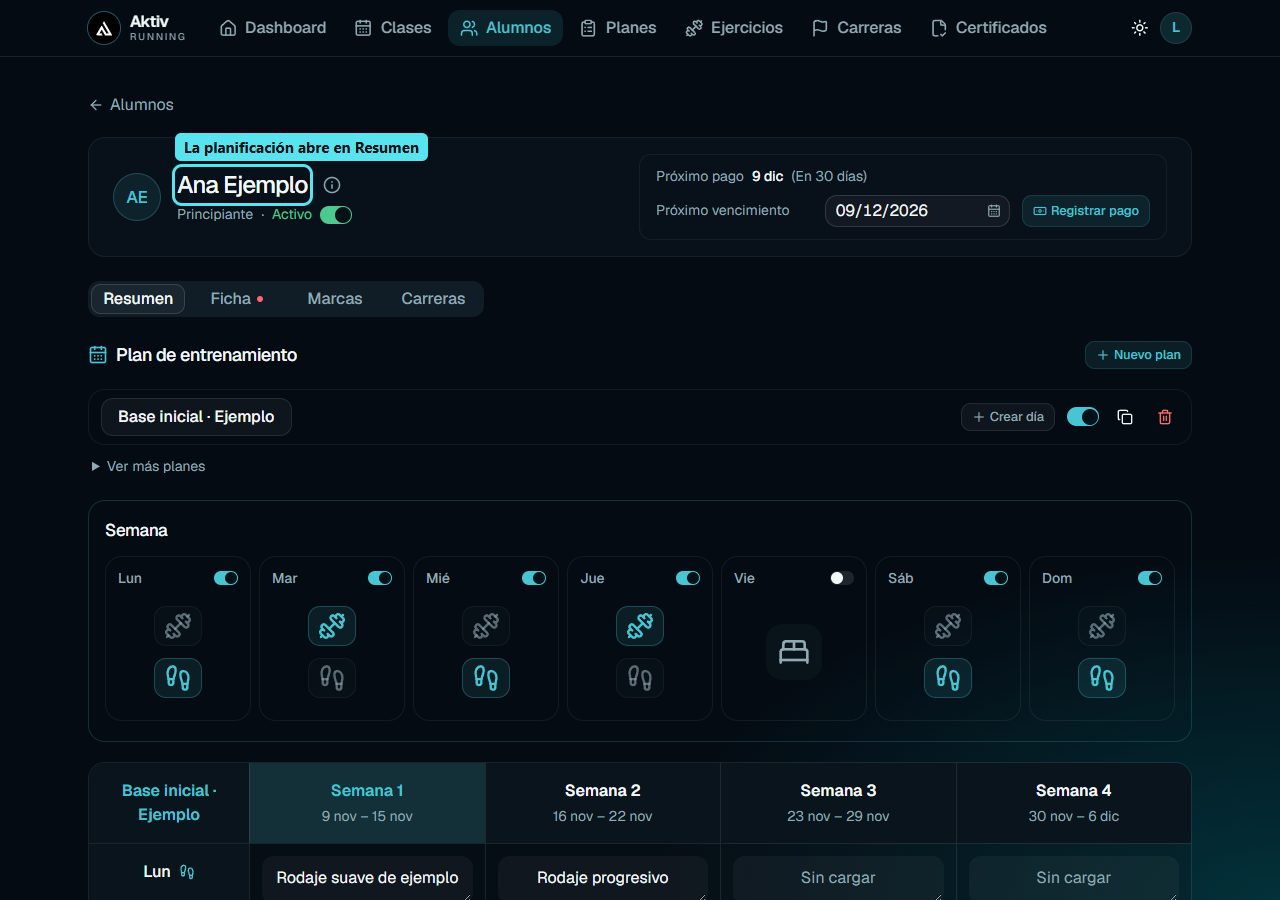
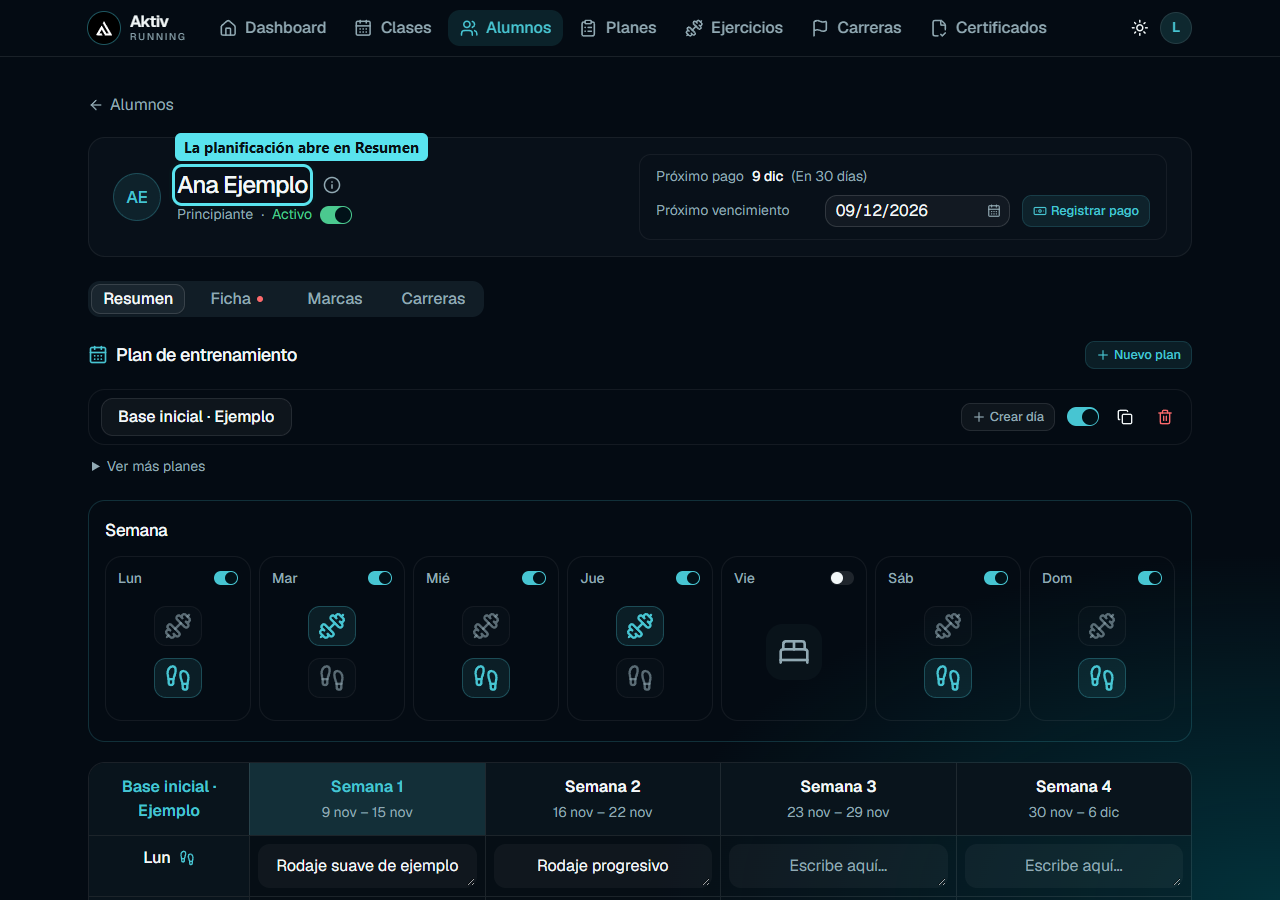
Compactar la grilla y mostrar asignaciones sin esperar al servidor

diff --git a/aktiv-client/src/components/planificacion-unificada.tsx b/aktiv-client/src/components/planificacion-unificada.tsx
@@ -22,7 +22,7 @@ const nombreRutina=(p:Plan,s:SesionEntrenamiento)=>`${tipoVisual(s.tipo)} - Día
 const nombreVisible=(nombre:string)=>nombre.replace(/(Fuerza|GYM)\s*[·–—]\s*(Día\s*\d+)/gi,"Fuerza - $2");
 const selector="w-full min-w-0 rounded-lg border border-input bg-background px-2 py-2 text-center text-sm focus-visible:outline-2 focus-visible:outline-ring";
 
-const Asignador=memo(function Asignador({valor,sesiones,label,onGuardar,onPendiente,soloRutina=false,mostrarRutina=true,disabled=false}:{valor:ActividadDia[];tipos:string[];sesiones:SesionEntrenamiento[];label:string;onGuardar:(a:ActividadDia[])=>Promise<void>;onPendiente:(id:string,v:boolean)=>void;soloRutina?:boolean;mostrarRutina?:boolean;disabled?:boolean}) {
+const Asignador=memo(function Asignador({valor,sesiones,label,onGuardar,onCambiar,onPendiente,soloRutina=false,mostrarRutina=true,disabled=false}:{valor:ActividadDia[];tipos:string[];sesiones:SesionEntrenamiento[];label:string;onGuardar:(a:ActividadDia[])=>Promise<void>;onCambiar:(a:ActividadDia[])=>void;onPendiente:(id:string,v:boolean)=>void;soloRutina?:boolean;mostrarRutina?:boolean;disabled?:boolean}) {
  const [lista,setLista]=useState(valor),[guardada,setGuardada]=useState(JSON.stringify(valor)),[ocupado,setOcupado]=useState(false),[error,setError]=useState("");
  const serial=JSON.stringify(valor),sucio=JSON.stringify(lista)!==guardada;
  if(!sucio&&!ocupado&&serial!==guardada){setLista(JSON.parse(serial));setGuardada(serial);}
@@ -32,10 +32,10 @@ const Asignador=memo(function Asignador({valor,sesiones,label,onGuardar,onPendie
  useEffect(()=>{onPendiente(controlId,sucio||ocupado);return()=>onPendiente(controlId,false);},[controlId,sucio,ocupado,onPendiente]);
  useEffect(()=>{
   if(!sucio||ocupado||error)return;
-  const timer=setTimeout(async()=>{setOcupado(true);try{await onGuardar(lista);setGuardada(JSON.stringify(lista));}catch(e){setError(textoError(e));}finally{setOcupado(false);}},400);
+  const timer=setTimeout(async()=>{setOcupado(true);try{await onGuardar(lista);setGuardada(JSON.stringify(lista));}catch(e){setError(textoError(e));}finally{setOcupado(false);}},0);
   return()=>clearTimeout(timer);
  },[lista,sucio,ocupado,error,onGuardar]);
- function actualizar(nueva:ActividadDia[]){onPendiente(controlId,JSON.stringify(nueva)!==guardada);setLista(nueva);setError("");}
+ function actualizar(nueva:ActividadDia[]){onPendiente(controlId,JSON.stringify(nueva)!==guardada);setLista(nueva);onCambiar(nueva);setError("");}
  function cambiar(i:number,a:ActividadDia){actualizar(lista.map((actual,n)=>n===i?a:actual));}
  return <div className="min-w-0 space-y-2">
   {!soloRutina&&<><div className="flex min-w-0 items-center justify-between gap-2"><span className="text-xs font-medium text-muted-foreground">{label.includes(",")?"Entrenamiento":label.slice(0,3)}</span><Switch size="sm" aria-label={`Entrena el ${label}`} checked={!descansa} disabled={disabled} onCheckedChange={entrena=>{if(entrena)actualizar(anteriores.current.filter(a=>sesiones.some(s=>s.id===a.sesionId)||!a.sesionId));else{anteriores.current=lista.filter(a=>a.tipo!=="Descanso");actualizar([{tipo:"Descanso"}]);}}} /></div>
@@ -43,12 +43,12 @@ const Asignador=memo(function Asignador({valor,sesiones,label,onGuardar,onPendie
     {descansa?<div role="status" aria-label={`Descanso de ${label}`} className="flex size-14 items-center justify-center rounded-xl bg-muted/40 text-muted-foreground"><BedDouble aria-hidden="true" className="size-8" /><span className="sr-only">Descanso</span></div>:[...new Set(["Fuerza","Running",...lista.map(a=>a.tipo)].map(tipoVisual))].filter(t=>t!=="Descanso").map(tipo=>{const activo=lista.some(a=>tipoVisual(a.tipo)===tipo),Icono=icono(tipo);return <Button key={tipo} type="button" variant="ghost" aria-label={`${tipo} de ${label}`} title={tipo} aria-pressed={activo} disabled={disabled||(!activo&&lista.length>=8)} className={`h-10 w-12 shrink-0 rounded-lg border p-0 transition-colors ${activo?"border-primary/35 bg-primary/10 text-primary":"border-border/70 bg-muted/25 text-muted-foreground/60 hover:bg-muted/50 hover:text-foreground"}`} onClick={()=>actualizar(activo?lista.filter(a=>tipoVisual(a.tipo)!==tipo):[...lista.filter(a=>a.tipo!=="Descanso"),{tipo}])}><Icono aria-hidden="true" className="size-7" /></Button>;})}
    </div>
   </>}
-  {mostrarRutina&&lista.map((a,i)=>!["Running","Descanso"].includes(a.tipo)&&<select key={a.sesionId??a.tipo+i} disabled={disabled} aria-label={`Rutina de ${tipoVisual(a.tipo)} para ${label}`} className={selector} value={a.sesionId??""} onChange={e=>{const sesion=sesiones.find(s=>s.id===e.target.value);cambiar(i,{tipo:sesion?.tipo??a.tipo,...(sesion?{sesionId:sesion.id}:{})});}}>
+  {mostrarRutina&&lista.map((a,i)=>!["Running","Descanso"].includes(a.tipo)&&<select key={a.tipo+i} disabled={disabled} aria-label={`Rutina de ${tipoVisual(a.tipo)} para ${label}`} className={selector} value={a.sesionId??""} onChange={e=>{const sesion=sesiones.find(s=>s.id===e.target.value);cambiar(i,{tipo:sesion?.tipo??a.tipo,...(sesion?{sesionId:sesion.id}:{})});}}>
    <option value="">Sin asignar</option>{sesiones.filter(s=>tipoVisual(s.tipo)===tipoVisual(a.tipo)).map((s,n)=><option key={s.id} value={s.id}>{nombreVisible(s.nombre)||`${tipoVisual(s.tipo)} - Día ${n+1}`}</option>)}
   </select>)}
   {error?<div role="alert" className="space-y-1 text-xs text-destructive"><p>{error}</p><Button size="sm" variant="outline" onClick={()=>setError("")}>Reintentar asignación</Button></div>:sucio||ocupado?<p role="status" className="sr-only">Guardando asignación…</p>:null}
  </div>;
-},(a,b)=>JSON.stringify(a.valor)===JSON.stringify(b.valor)&&a.sesiones===b.sesiones&&a.label===b.label&&a.onGuardar===b.onGuardar&&a.onPendiente===b.onPendiente&&a.soloRutina===b.soloRutina&&a.mostrarRutina===b.mostrarRutina&&a.disabled===b.disabled);
+},(a,b)=>JSON.stringify(a.valor)===JSON.stringify(b.valor)&&a.sesiones===b.sesiones&&a.label===b.label&&a.onGuardar===b.onGuardar&&a.onCambiar===b.onCambiar&&a.onPendiente===b.onPendiente&&a.soloRutina===b.soloRutina&&a.mostrarRutina===b.mostrarRutina&&a.disabled===b.disabled);
 
 export function PlanificacionUnificada({plan,editable,renderRutina}:Props) {
  const {api}=usePlanEditor();const {actividades,error:errorActividades}=useActividadesPlan(editable);
@@ -56,6 +56,7 @@ export function PlanificacionUnificada({plan,editable,renderRutina}:Props) {
  const [semana,setSemana]=useState(()=>plan.inicio?(semanaDelPlan(plan.inicio,hoyISO(),plan.semanas)??1):1);
  const [fuente,setFuente]=useState({distribucion:plan.distribucion,running:plan.running});
  if(fuente.distribucion!==plan.distribucion||fuente.running!==plan.running){setFuente({distribucion:plan.distribucion,running:plan.running});setDistribucion(plan.distribucion??{});setRunning(plan.running??{});}
+ const [anticipadas,setAnticipadas]=useState<Record<number,ActividadDia[]>>({});
  const [pendientes,setPendientes]=useState<Record<string,boolean>>({});const [rutina,setRutina]=useState<{id:string;semana:number}|null>(null);
  const ocupado=false,version=0;
  const edicionDist=useRef(false),edicionRunning=useRef(false);
@@ -64,32 +65,35 @@ export function PlanificacionUnificada({plan,editable,renderRutina}:Props) {
  const tipos=[...new Set([...actividades,...plan.sesiones.map(s=>s.tipo),"Descanso"])];
  const actual=plan.inicio?semanaDelPlan(plan.inicio,hoyISO(),plan.semanas):null;
  const desde=Math.floor((semana-1)/4)*4+1,columnas=Array.from({length:Math.min(4,plan.semanas-desde+1)},(_,i)=>desde+i);
- const datos={...plan,distribucion,running};const pendiente=ocupado||Object.values(pendientes).some(Boolean);
+ const vista=Object.entries(anticipadas).reduce((d,[dia,actividades])=>actualizarDistribucion(d,{dia:Number(dia),actividades}),distribucion);
+ const datos={...plan,distribucion:vista,running};const pendiente=ocupado||Object.values(pendientes).some(Boolean);
  const onPendiente=useCallback((id:string,v:boolean)=>setPendientes(p=>p[id]===v?p:{...p,[id]:v}),[]);
  useEffect(()=>registrarBorradorMensual(`planificacion:${plan.id}`,pendiente),[plan.id,pendiente]);
  useEffect(()=>{if(!pendiente)return;const salir=(e:BeforeUnloadEvent)=>{e.preventDefault();e.returnValue="";};window.addEventListener("beforeunload",salir);return()=>window.removeEventListener("beforeunload",salir);},[pendiente]);
  function navegar(accion:()=>void){if(hayBorradoresMensuales())toast.error("Esperá a que se guarden los cambios.");else accion();}
- const asignar=useCallback(async(dia:number,a:ActividadDia[],s?:number)=>{const dto=asignarDiaApi.parse({dia,actividades:a,...(s?{semana:s}:{})});await api.patch(`/planes-mensuales/${plan.id}/distribucion`,dto);edicionDist.current=true;setDistribucion(prev=>actualizarDistribucion(prev,dto));},[api,plan.id]);
+ const asignar=useCallback(async(dia:number,a:ActividadDia[],s?:number)=>{const dto=asignarDiaApi.parse({dia,actividades:a,...(s?{semana:s}:{})});await api.patch(`/planes-mensuales/${plan.id}/distribucion`,dto);edicionDist.current=true;setDistribucion(prev=>actualizarDistribucion(prev,dto));setAnticipadas(prev=>{if(JSON.stringify(prev[dia])!==JSON.stringify(a))return prev;const siguiente={...prev};delete siguiente[dia];return siguiente;});},[api,plan.id]);
+ const anticiparDias=useMemo(()=>DIAS_PLAN.map((_,i)=>(a:ActividadDia[])=>setAnticipadas(prev=>({...prev,[i+1]:a}))),[]);
  const guardarDias=useMemo(()=>DIAS_PLAN.map((_,i)=>(a:ActividadDia[])=>asignar(i+1,a)),[asignar]);
  const alGuardarRunning=useCallback((s:number,campo:Parameters<typeof CeldaRunning>[0]["campo"],texto:string)=>{edicionRunning.current=true;setRunning(prev=>{const siguiente={...prev,[s]:{...prev[s],[campo]:texto}};return siguiente;});},[]);
+ function actividadesGrilla(dia:number,s:number){const a=actividadesDelDia(datos,dia,s);const explicita=vista.semanas?.[s]?.[dia]??vista.base?.[dia];const base=actividadesDelDia(datos,dia,1);return explicita===undefined&&base.some(v=>v.tipo==="Running"&&!v.sesionId)&&!a.some(v=>["Running","GYM","Descanso"].includes(v.tipo))?[...a,{tipo:"Running"}]:a;}
  const abierta=plan.sesiones.find(s=>s.id===rutina?.id);
  return <section aria-label="Planificación unificada" className="min-w-0 space-y-5">
   <div className="space-y-3 rounded-xl border border-primary/20 p-3 sm:p-4"><div className="flex flex-wrap items-center justify-between gap-3"><div><h3 aria-label="Actividades de la semana" className="text-base font-medium tracking-tight">Semana</h3></div></div>
    {errorActividades&&editable&&<p role="alert" className="text-sm text-destructive">{errorActividades}</p>}
-   <div className="flex min-w-0 max-w-full gap-2 overflow-x-auto pb-1 lg:grid lg:grid-cols-7">{DIAS_PLAN.map((dia,i)=><section key={dia} aria-label={`Asignación de ${dia}`} className="w-28 min-w-0 shrink-0 rounded-xl border border-border/70 p-3 lg:w-auto">{!editable&&<h4 className="text-xs font-medium text-muted-foreground">{dia.slice(0,3)}</h4>}{editable?<Asignador mostrarRutina={false} valor={distribucion.base?.[i+1]??actividadesDelDia({...plan,distribucion:{}},i+1,1)} tipos={tipos} sesiones={plan.sesiones} label={dia} onPendiente={onPendiente} onGuardar={guardarDias[i]} />:<p className="break-words text-sm text-muted-foreground">{actividadesDelDia(datos,i+1,semana).map(a=>a.tipo).join(" + ")||"Sin asignar"}</p>}{Object.values(distribucion.semanas??{}).some(d=>d[i+1]!==undefined)&&<p className="text-xs text-primary">Varía por semana</p>}</section>)}</div>
+   <div className="flex min-w-0 max-w-full gap-2 overflow-x-auto pb-1 lg:grid lg:grid-cols-7">{DIAS_PLAN.map((dia,i)=><section key={dia} aria-label={`Asignación de ${dia}`} className="w-28 min-w-0 shrink-0 rounded-xl border border-border/70 p-3 lg:w-auto">{!editable&&<h4 className="text-xs font-medium text-muted-foreground">{dia.slice(0,3)}</h4>}{editable?<Asignador mostrarRutina={false} disabled={Boolean(pendientes["rutina:"+dia])||Object.entries(pendientes).some(([id,v])=>v&&id.endsWith(":"+DIAS_RUNNING[i]))} valor={vista.base?.[i+1]??actividadesDelDia({...plan,distribucion:{}},i+1,1)} tipos={tipos} sesiones={plan.sesiones} label={dia} onPendiente={onPendiente} onGuardar={guardarDias[i]} onCambiar={anticiparDias[i]} />:<p className="break-words text-sm text-muted-foreground">{actividadesDelDia(datos,i+1,semana).map(a=>a.tipo).join(" + ")||"Sin asignar"}</p>}{Object.values(distribucion.semanas??{}).some(d=>d[i+1]!==undefined)&&<p className="text-xs text-primary">Varía por semana</p>}</section>)}</div>
   </div>
   {pendiente&&<p role="status" className="sr-only">Hay cambios pendientes de guardar</p>}
   <div className="flex items-center justify-between gap-3 md:hidden"><Button variant="outline" size="icon-sm" aria-label="Semana anterior de planificación" disabled={pendiente||semana===1} onClick={()=>navegar(()=>setSemana(s=>s-1))}><ArrowLeft /></Button><label className="flex items-center gap-2 text-sm">Semana<select className={selector} aria-label="Semana de planificación" value={semana} disabled={pendiente} onChange={e=>navegar(()=>setSemana(Number(e.target.value)))}>{Array.from({length:plan.semanas},(_,i)=><option key={i} value={i+1}>{i+1} de {plan.semanas}</option>)}</select></label><Button variant="outline" size="icon-sm" aria-label="Semana siguiente de planificación" disabled={pendiente||semana===plan.semanas} onClick={()=>navegar(()=>setSemana(s=>s+1))}><ArrowRight /></Button></div>
   {plan.semanas>4&&<div className="hidden items-center justify-between md:flex"><Button variant="outline" size="sm" disabled={pendiente||desde===1} onClick={()=>navegar(()=>setSemana(desde-4))}><ArrowLeft />Anteriores</Button><span className="text-sm">Semanas {desde}–{columnas.at(-1)} de {plan.semanas}</span><Button variant="outline" size="sm" disabled={pendiente||desde+4>plan.semanas} onClick={()=>navegar(()=>setSemana(desde+4))}>Siguientes<ArrowRight /></Button></div>}
   <div className="max-w-full overflow-x-auto rounded-xl border text-center [&_textarea]:text-center [&_input]:text-center" style={{"--semanas":columnas.length} as CSSProperties}>
-   <div className="hidden grid-cols-[160px_repeat(var(--semanas),minmax(0,1fr))] bg-card md:grid"><div className="p-4 text-sm font-semibold text-primary">{plan.nombre}</div>{columnas.map(s=><div key={s} className={`border-l p-4 text-center ${actual===s?"bg-primary/15 text-primary":""}`}><p className="text-sm font-semibold">Semana {s}</p>{plan.inicio&&<p className="mt-1 text-xs text-muted-foreground">{formatFecha(new Date(Date.parse(plan.inicio+"T12:00:00Z")+(s-1)*7*86400000).toISOString().slice(0,10))} – {formatFecha(new Date(Date.parse(plan.inicio+"T12:00:00Z")+((s-1)*7+6)*86400000).toISOString().slice(0,10))}</p>}</div>)}</div>
-   {DIAS_PLAN.map((dia,i)=><div key={dia} className="border-t bg-card/30 md:grid md:grid-cols-[160px_repeat(var(--semanas),minmax(0,1fr))]"><div className="space-y-2 bg-card p-3 md:p-4"><h4 className="flex items-center justify-center gap-2 text-sm font-medium"><span>{dia.slice(0,3)}</span>{actividadesDelDia(datos,i+1,semana).filter(a=>a.tipo!=="Descanso").map((a,n)=>{const Icono=icono(a.tipo);return <Icono key={n} aria-label={tipoVisual(a.tipo)} className="size-4 text-primary" />;})}</h4>{editable&&(distribucion.base?.[i+1]??actividadesDelDia({...plan,distribucion:{}},i+1,1)).some(a=>!["Running","Descanso"].includes(a.tipo))&&<Asignador soloRutina valor={distribucion.base?.[i+1]??actividadesDelDia({...plan,distribucion:{}},i+1,1)} tipos={tipos} sesiones={plan.sesiones} label={dia} onPendiente={onPendiente} onGuardar={guardarDias[i]} />}</div>{columnas.map(s=>{const a=actividadesDelDia(datos,i+1,s);return <div key={s} className={(s===semana?"block":"hidden md:block")+" min-w-0 content-center space-y-3 p-3 text-center md:border-l"}>
+   <div className="hidden grid-cols-[160px_repeat(var(--semanas),minmax(0,1fr))] bg-card md:grid"><div className="p-3 text-sm font-semibold text-primary">{plan.nombre}</div>{columnas.map(s=><div key={s} className={`border-l p-3 text-center ${actual===s?"bg-primary/15 text-primary":""}`}><p className="text-sm font-semibold">Semana {s}</p>{plan.inicio&&<p className="mt-1 text-xs text-muted-foreground">{formatFecha(new Date(Date.parse(plan.inicio+"T12:00:00Z")+(s-1)*7*86400000).toISOString().slice(0,10))} – {formatFecha(new Date(Date.parse(plan.inicio+"T12:00:00Z")+((s-1)*7+6)*86400000).toISOString().slice(0,10))}</p>}</div>)}</div>
+   {DIAS_PLAN.map((dia,i)=><div key={dia} className="border-t bg-card/30 md:grid md:grid-cols-[160px_repeat(var(--semanas),minmax(0,1fr))]"><div className="space-y-1.5 bg-card p-2.5"><h4 className="flex items-center justify-center gap-2 text-sm font-medium"><span>{dia.slice(0,3)}</span>{actividadesDelDia(datos,i+1,semana).filter(a=>a.tipo!=="Descanso").map((a,n)=>{const Icono=icono(a.tipo);return <Icono key={n} aria-label={tipoVisual(a.tipo)} className="size-4 text-primary" />;})}</h4>{editable&&(vista.base?.[i+1]??actividadesDelDia({...plan,distribucion:{}},i+1,1)).some(a=>!["Running","Descanso"].includes(a.tipo))&&<Asignador soloRutina disabled={Boolean(pendientes["actividad:"+dia])} valor={vista.base?.[i+1]??actividadesDelDia({...plan,distribucion:{}},i+1,1)} tipos={tipos} sesiones={plan.sesiones} label={dia} onPendiente={onPendiente} onGuardar={guardarDias[i]} onCambiar={anticiparDias[i]} />}</div>{columnas.map(s=>{const a=actividadesGrilla(i+1,s);return <div key={s} className={(s===semana?"block":"hidden md:block")+" min-w-0 content-center space-y-2 p-2 text-center md:border-l"}>
     {a.length?a.map((v,n)=>{const sesion=plan.sesiones.find(r=>r.id===v.sesionId);return <div key={v.sesionId??v.tipo+n} className="min-w-0">
-     {v.tipo==="Running"&&!sesion?<div className="space-y-2">{editable?<CeldaRunning key={`${version}:${s}:${i}`} soloTexto planId={plan.id} semana={s} campo={DIAS_RUNNING[i]} valor={running[s]?.[DIAS_RUNNING[i]]??""} onGuardado={alGuardarRunning} onPendiente={onPendiente} />:<p className="whitespace-pre-wrap break-words text-sm leading-6">{running[s]?.[DIAS_RUNNING[i]]||"Sin cargar"}</p>}</div>:sesion?<Button className="h-auto min-h-16 w-full min-w-0 justify-center whitespace-normal rounded-xl border-primary/25 bg-primary/5 p-3 text-center hover:bg-primary/10" aria-label={`Abrir ${nombreRutina(plan,sesion)}, ${dia}, semana ${s}`} onClick={()=>navegar(()=>setRutina({id:sesion.id,semana:s}))}><span className="block min-w-0 break-words text-sm font-medium">{nombreVisible(sesion.nombre)||nombreRutina(plan,sesion)}</span></Button>:<div className="flex min-h-16 items-center justify-center text-muted-foreground">{v.tipo==="Descanso"?<BedDouble aria-label="Descanso" className="size-7" />:<span className="text-sm">Sin asignar</span>}</div>}
-    </div>;}):<p className="py-3 text-sm text-muted-foreground">Sin asignar</p>}
+     {v.tipo==="Running"&&!sesion?<div className="space-y-2">{editable?<CeldaRunning key={`${version}:${s}:${i}`} soloTexto planId={plan.id} semana={s} campo={DIAS_RUNNING[i]} valor={running[s]?.[DIAS_RUNNING[i]]??""} onGuardado={alGuardarRunning} onPendiente={onPendiente} />:<p className="whitespace-pre-wrap break-words text-sm leading-6">{running[s]?.[DIAS_RUNNING[i]]||"Sin cargar"}</p>}</div>:sesion?<Button className="h-auto min-h-12 w-full min-w-0 justify-center whitespace-normal rounded-xl border-primary/25 bg-primary/5 p-3 text-center hover:bg-primary/10" aria-label={`Abrir ${nombreRutina(plan,sesion)}, ${dia}, semana ${s}`} onClick={()=>setRutina({id:sesion.id,semana:s})}><span className="block min-w-0 break-words text-sm font-medium">{nombreVisible(sesion.nombre)||nombreRutina(plan,sesion)}</span></Button>:<div className="flex min-h-12 items-center justify-center text-muted-foreground">{v.tipo==="Descanso"?<BedDouble aria-label="Descanso" className="size-7" />:<span className="text-sm">Sin asignar</span>}</div>}
+    </div>;}):<p className="py-2 text-sm text-muted-foreground">Sin asignar</p>}
 
    </div>;})}</div>)}
-   {(["volumen","sugerencias"] as const).map(campo=><div key={campo} className="border-t bg-muted/20 md:grid md:grid-cols-[160px_repeat(var(--semanas),minmax(0,1fr))]"><h4 className="min-w-0 break-words p-4 text-sm font-semibold">{campo==="volumen"?"Volumen":"Sugerencias"}</h4>{columnas.map(s=><div key={s} className={(s===semana?"block":"hidden md:block")+" min-w-0 p-3 md:border-l"}>{campo==="volumen"&&!DIAS_PLAN.some((_,i)=>actividadesDelDia(datos,i+1,s).some(a=>a.tipo==="Running"))?<p className="py-2 text-sm text-muted-foreground">—</p>:editable?<CeldaRunning key={`${version}:${s}:${campo}`} soloTexto planId={plan.id} semana={s} campo={campo} valor={running[s]?.[campo]??""} onGuardado={alGuardarRunning} onPendiente={onPendiente} />:<p className="whitespace-pre-wrap break-words text-sm">{running[s]?.[campo]?(running[s]?.[campo]+(campo==="volumen"?" km":"")):"—"}</p>}</div>)}</div>)}
+   {(["volumen","sugerencias"] as const).map(campo=><div key={campo} className="border-t bg-muted/20 md:grid md:grid-cols-[160px_repeat(var(--semanas),minmax(0,1fr))]"><h4 className="min-w-0 break-words p-4 text-sm font-semibold">{campo==="volumen"?"Volumen":"Sugerencias"}</h4>{columnas.map(s=><div key={s} className={(s===semana?"block":"hidden md:block")+" min-w-0 p-3 md:border-l"}>{campo==="volumen"&&!DIAS_PLAN.some((_,i)=>actividadesGrilla(i+1,s).some(a=>a.tipo==="Running"))?<p className="py-2 text-sm text-muted-foreground">—</p>:editable?<CeldaRunning key={`${version}:${s}:${campo}`} soloTexto planId={plan.id} semana={s} campo={campo} valor={running[s]?.[campo]??""} onGuardado={alGuardarRunning} onPendiente={onPendiente} />:<p className="whitespace-pre-wrap break-words text-sm">{running[s]?.[campo]?(running[s]?.[campo]+(campo==="volumen"?" km":"")):"—"}</p>}</div>)}</div>)}
   </div>
   {abierta&&rutina&&renderRutina(abierta,rutina.semana,()=>setRutina(null))}
  </section>;

diff --git a/aktiv-client/src/components/running-semanal.tsx b/aktiv-client/src/components/running-semanal.tsx
@@ -32,7 +32,7 @@ function Celda({planId,semana,campo,valor,tipoValor,soloTexto=false,onGuardado,o
   },500);return()=>clearTimeout(timer);
  },[texto,guardado,sucio,ocupado,error,semana,campo,planId,api,onGuardado,tipo,tipoGuardado,esDia]);
  const label=nombreCampo(campo)+", semana "+semana;
- return <div className="min-w-0 space-y-2">{esDia&&<select aria-label={"Actividad de "+label} value={tipo} onChange={e=>{setTipo(e.target.value as TipoDiaRunning);setError("");}} className="w-full min-w-0 rounded-md border bg-background px-2 py-1.5 text-sm">{TIPOS_DIA_RUNNING.map(t=><option key={t}>{t}</option>)}</select>}{esDia&&tipo!=="Running"?<p className="rounded-md bg-muted/30 px-3 py-4 text-sm font-semibold text-muted-foreground">{tipo}<span className="mt-1 block text-xs font-normal">Sin running</span></p>:campo==="volumen"?<div className="flex items-center gap-2"><Input aria-label={label} inputMode="decimal" maxLength={7} value={texto} placeholder="Sin cargar" onChange={e=>{setTexto(e.target.value);setError("");}} /><span className="text-sm text-muted-foreground">km</span></div>:<Textarea rows={1} aria-label={label} value={texto} maxLength={4000} placeholder={campo==="sugerencias"?"Indicaciones para esta semana…":"Sin cargar"} onChange={e=>{setTexto(e.target.value);setError("");}} className="min-h-12 field-sizing-content resize-y border-transparent bg-transparent text-base leading-relaxed shadow-none focus-visible:border-primary" />}{error?<div role="alert" className="space-y-1 text-sm text-destructive"><p>{error}</p><Button variant="outline" size="sm" onClick={()=>setError("")}>Reintentar guardado</Button></div>:(ocupado||sucio)?<span role="status" className="block text-xs text-muted-foreground">{ocupado?"Guardando…":"Cambios pendientes"}</span>:null}</div>;
+ return <div className="min-w-0 space-y-2">{esDia&&<select aria-label={"Actividad de "+label} value={tipo} onChange={e=>{setTipo(e.target.value as TipoDiaRunning);setError("");}} className="w-full min-w-0 rounded-md border bg-background px-2 py-1.5 text-sm">{TIPOS_DIA_RUNNING.map(t=><option key={t}>{t}</option>)}</select>}{esDia&&tipo!=="Running"?<p className="rounded-md bg-muted/30 px-3 py-4 text-sm font-semibold text-muted-foreground">{tipo}<span className="mt-1 block text-xs font-normal">Sin running</span></p>:campo==="volumen"?<div className="flex items-center gap-2"><Input aria-label={label} inputMode="decimal" maxLength={7} value={texto} placeholder="Sin cargar" onChange={e=>{setTexto(e.target.value);setError("");}} /><span className="text-sm text-muted-foreground">km</span></div>:<Textarea rows={1} aria-label={label} value={texto} maxLength={4000} placeholder={campo==="sugerencias"?"Indicaciones para esta semana…":soloTexto?"Escribe aquí…":"Sin cargar"} onChange={e=>{setTexto(e.target.value);setError("");}} className="min-h-10 field-sizing-content resize-y border-transparent bg-transparent text-base leading-relaxed shadow-none focus-visible:border-primary" />}{error?<div role="alert" className="space-y-1 text-sm text-destructive"><p>{error}</p><Button variant="outline" size="sm" onClick={()=>setError("")}>Reintentar guardado</Button></div>:(ocupado||sucio)?<span role="status" className="block text-xs text-muted-foreground">{ocupado?"Guardando…":"Cambios pendientes"}</span>:null}</div>;
 }
 export function RunningSemanal({plan,editable=false,semanaInicial,onDatos}:{plan:PlanRunning;editable?:boolean;semanaInicial?:number;onDatos?:(datos:Running)=>void}){
  const {api}=usePlanEditor();

diff --git a/aktiv-client/src/components/plan-mensual.tsx b/aktiv-client/src/components/plan-mensual.tsx
@@ -535,7 +535,7 @@ function CalendarioPlanes({ planes }: { planes: PlanMensual[] }) {
 export function RutinaPlanModal({plan,sesion,editable,semanaInicial,onCerrar}:{plan:Pick<PlanMensual,"sesiones"|"semanas">&{inicio?:string};sesion:SesionEntrenamiento;editable:boolean;semanaInicial:number;onCerrar:()=>void}) {
  const [semana,setSemana]=useState(()=>plan.inicio?(semanaDelPlan(plan.inicio,hoyISO(),plan.semanas)??semanaInicial):semanaInicial);
  const numero=plan.sesiones.filter(s=>s.tipo===sesion.tipo).findIndex(s=>s.id===sesion.id)+1;
- const cerrar=()=>{if(!hayBorradoresMensuales())onCerrar();};
+ const cerrar=()=>{if(!hayBorradoresMensuales(sesion.id))onCerrar();};
  return <Dialog open onOpenChange={v=>!v&&cerrar()}><DialogContent className="max-h-[calc(100dvh-1rem)] w-[calc(100vw-1rem)] max-w-[calc(100vw-1rem)] gap-5 overflow-y-auto sm:max-w-[1080px]">
   <DialogHeader className={editable?"sr-only":"border-b pb-3 text-center"}><DialogTitle>{sesion.nombre||`${sesion.tipo} – Día ${numero}`}</DialogTitle><DialogDescription className="sr-only">Día de entrenamiento</DialogDescription></DialogHeader>
 

diff --git a/aktiv-client/src/lib/mensual.ts b/aktiv-client/src/lib/mensual.ts
@@ -14,7 +14,7 @@ export function avisarCambioMensual(sesion?: SesionEntrenamiento) {
   window.dispatchEvent(new CustomEvent(EVENTO_MENSUAL, { detail: { sesion } }));
 }
 const borradores = new Set<string>();
-export function hayBorradoresMensuales() { return borradores.size > 0; }
+export function hayBorradoresMensuales(sesionId?:string) { return sesionId ? [...borradores].some(id=>id===sesionId||id.startsWith(`seguimiento:${sesionId}:`)) : borradores.size > 0; }
 export function registrarBorradorMensual(id: string, sucio: boolean) {
   if (sucio) borradores.add(id); else borradores.delete(id);
   return () => { borradores.delete(id); };
